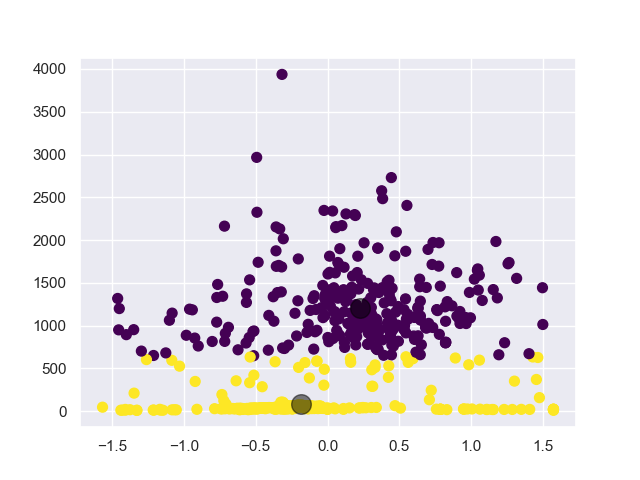
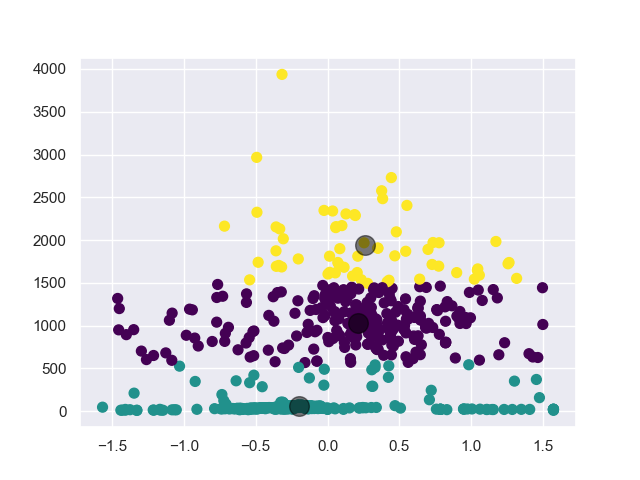
Update clustering approach

diff --git a/main.py b/main.py
@@ -99,7 +99,7 @@ plt.scatter(data_array[:, 0], data_array[:, 1], s=50);
 plt.show()
 
 # k-mean clustering
-kmeans = KMeans(n_clusters=2)
+kmeans = KMeans(n_clusters=3)
 kmeans.fit(data_array)
 y_kmeans = kmeans.predict(data_array)
 
@@ -112,31 +112,45 @@ plt.show()
 # save plot to file
 fig.savefig('kmean_clustering.png')
 
-# finding the class object with more points
-n = [0,0]
-for i in y_kmeans:
-  n[i] +=1
+# centers = kmeans.cluster_centers_
 
-max_value = max(n)
-max_index = n.index(max_value)
+find = []
+
+for mean_point in centers:
+  find.append(mean_point[1])
+
+min_center = min(find)
+# print(min_center)
+min_index = find.index(min_center)
+# print(min_index)
+
+# finding the class object with more points
+# n = [0,0]
+# for i in y_kmeans:
+#   n[i] +=1
+
+# max_value = max(n)
+# max_index = n.index(max_value)
 
 selected_keypoints = []
 selected_descriptors = []
 
 for i in range(len(y_kmeans)):
-  if y_kmeans[i] == max_index:
+  if y_kmeans[i] == min_index:
     trainIndex = matches[i].trainIdx
     selected_keypoints.append(trainKeypoints[trainIndex])
     #selected_descriptors.append(trainDescriptors[trainIndex])
 
 # plotting the matched feature points on the current image frame
 trainImg_Matchedfeatures = cv2.drawKeypoints(train_img, MatchedTrainPoints, np.array([]), (0,0,255), 4)
+cv2.imwrite('ImagewithDynamicFeatures.jpg',trainImg_Matchedfeatures)
 cv2.imshow("Image", trainImg_Matchedfeatures)
 cv2.waitKey(3000)
 cv2.destroyAllWindows()
 
 # plotting the selected feature points on the current image frame
 trainImg_Selectedfeatures = cv2.drawKeypoints(train_img, selected_keypoints, np.array([]), (0,0,255), 4)
+cv2.imwrite('ImagewithRemovedDynamic.jpg',trainImg_Selectedfeatures)
 cv2.imshow("Image", trainImg_Selectedfeatures)
 cv2.waitKey(3000)
 cv2.destroyAllWindows()
